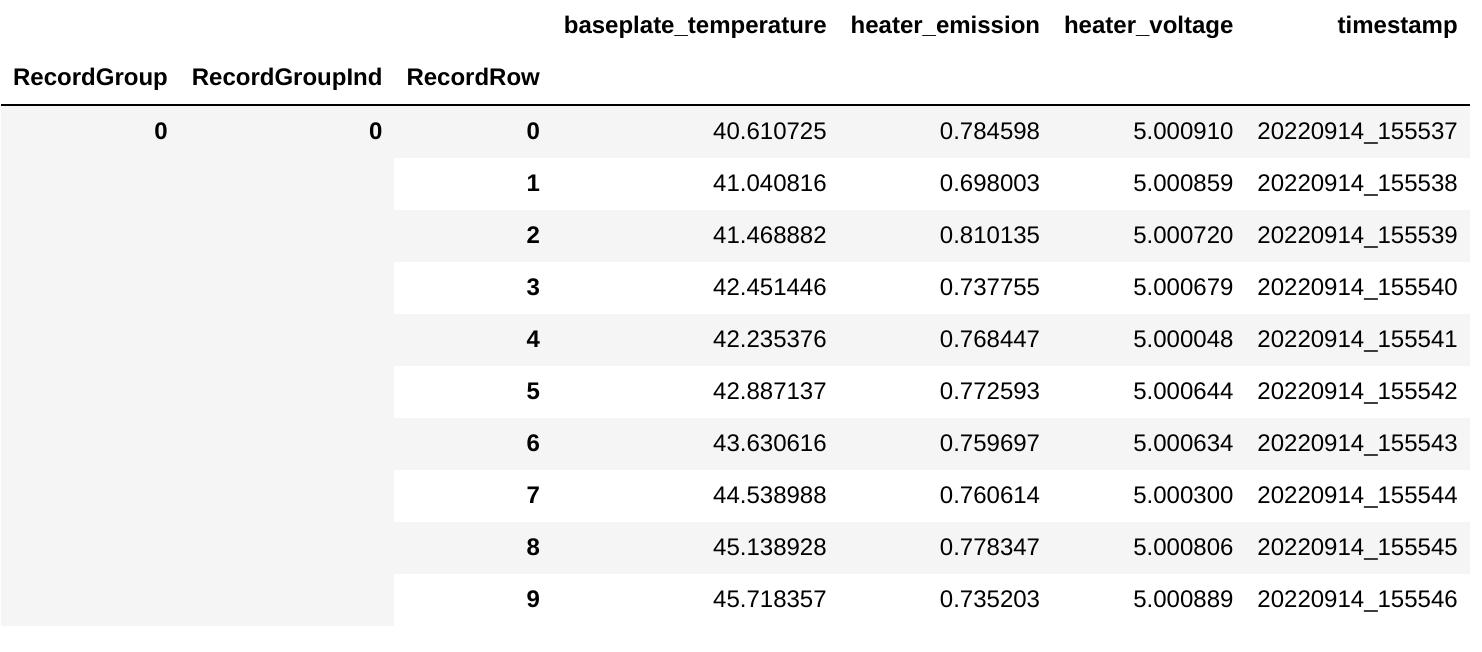
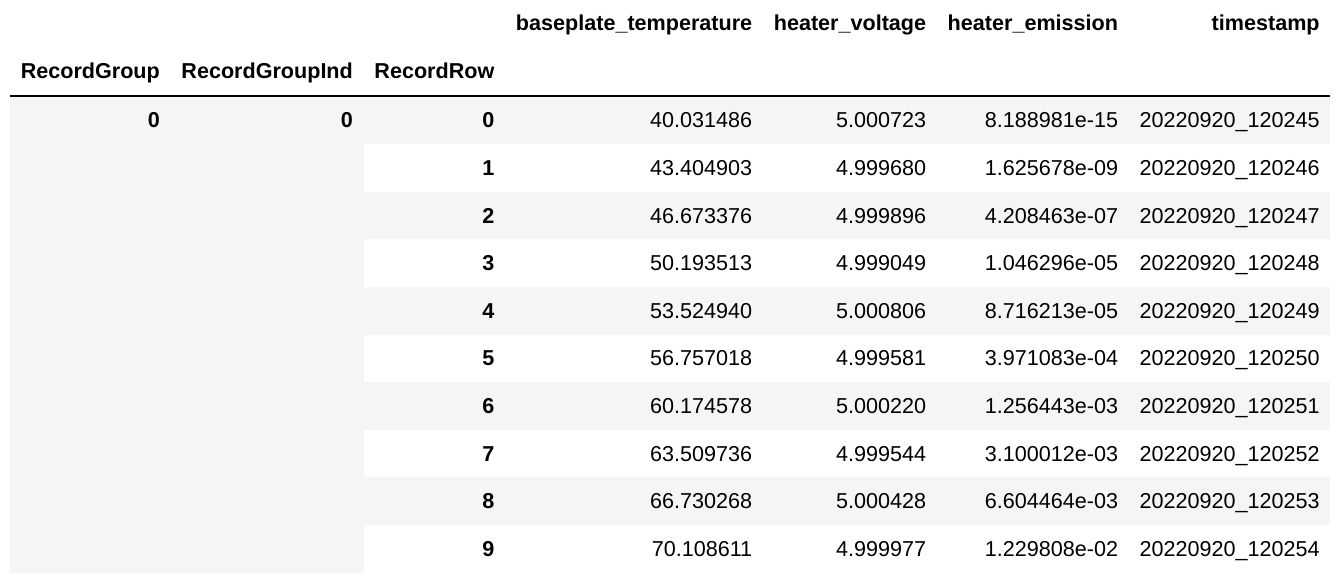
Output Data Standard doc complete. Minor additions to the step by step experiment configuration

diff --git a/docs/user_guide/data_standard/index.rst b/docs/user_guide/data_standard/index.rst
@@ -21,13 +21,13 @@ Output Data Standard
   and *RecordGroupInd*. *RecordGroup* is an integer identifying a set of records that are grouped together, for instance after being
   generated from the same Procedure Sequence. *RecordGroupInd* identifies unique records within a larger Record Group.
 
-Default Metadata:
------------------
-
 Example:
 --------
 
-| Let's consider an example using the fake experiment generated in the :ref:`Step-by-Step Experiment Configuration <tutorials/stepbystep_config:Step-by-Step Experiment Configuration>`
+| *note*: data values generated here are clearly physically unrealistic. Values in tables are simply to provide a demonstration of the
+  manner in which experimental data is organized with SPHERExLabTools.
+
+| Let's consider an example using the fake experiment generated in the :ref:`Step-by-Step Experiment Configuration <tutorials/stepbystep_config/index:Step-by-Step Experiment Configuration>`
   tutorial.
 
 | In this experiment, the temperature of a cryostat baseplate is monitored in response to some voltage applied to a heater. Additionally, the thermal emission of
@@ -36,9 +36,9 @@ Example:
   The measured quantities of the experiment are:
 
     - Baseplate temperature (K)
-    - Heater IR emission intensity (mW)
+    - Heater IR emission intensity (W)
     - Heater voltage (V)
-    - Timestamp at which quantities are measured (YYYYMMDD_HHMMSS.ms)
+    - Timestamp at which quantities are measured (YYYYMMDD_HHMMSS)
 
   The parameters of the Procedure recording the above information are:
 
@@ -85,10 +85,37 @@ Example:
 
         Metadata table after the first measurement.
 
-2) 10 seconds of data at several heater voltages
+| Note that since we recorded data every second for 10-seconds, our individual **Record** has 10 rows, indicated by the *RecordRow* column
+  in the data table. The procedure parameters and metadata tables are linked to the 10 rows of measurements through the *RecordGroup* and *RecordGroupInd*
+  indices.
+
+2) 2 seconds of data at several heater voltages
 *************************************************
 
-| Now suppose that we would like to run a sequence of measurements in which we record 10 seconds of data at several heater voltages.
+| Now suppose that we would like to run a sequence of measurements in which we record just 2 seconds of data at several heater voltages.
   Say that we have 5 total heater voltages that we would like to run, the list of which being: **heater_voltage = [0.0, 2.0, 4.0, 6.0, 0.0]**
 
 | After constructing the appropriate Procedure Sequence and running the measurement, our tables will then look something like:
+
+  **1. Data:**
+
+    .. figure:: fig/Data_rg1.png
+
+        Data table after the procedure sequence.
+
+  **2. Procedure Parameters**
+
+    .. figure:: fig/PP_rg1.png
+
+        Procedure parameters table after the procedure sequence.
+
+  **3. Metadata**
+
+    .. figure:: fig/Meta_rg1.png
+
+        Metadata table after the procedure sequence.
+
+| Note the resulting structure of the tables. The *RecordGroup* increments from 0 to 1, since we appended to the existing
+  tables. The *RecordGroupInd* scales from 0 to 4 since we took measurements at 5 separate heater voltages within the same
+  procedure sequence. Finally, for every *RecordGroup* and *RecordGroupInd* pair, there are two values of *RecordRow* since
+  we measured two seconds of data at every heater voltage.

diff --git a/docs/tutorials/stepbystep_config/index.rst b/docs/tutorials/stepbystep_config/index.rst
@@ -383,4 +383,3 @@ Step-by-Step Experiment Configuration
     Final interface.
 
 | We have now completed the configuration of our SPHERExLabTools fake experiment. Now checkout: :ref:`Using the SPHERExLabTools Interface <tutorials/interface/index:Using the SPHERExLabTools Interface>`!
-
